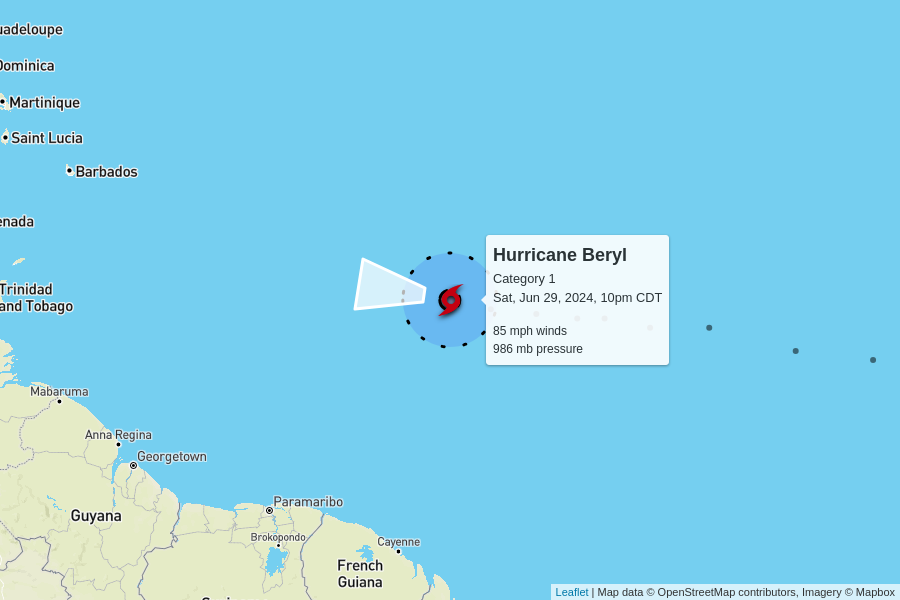
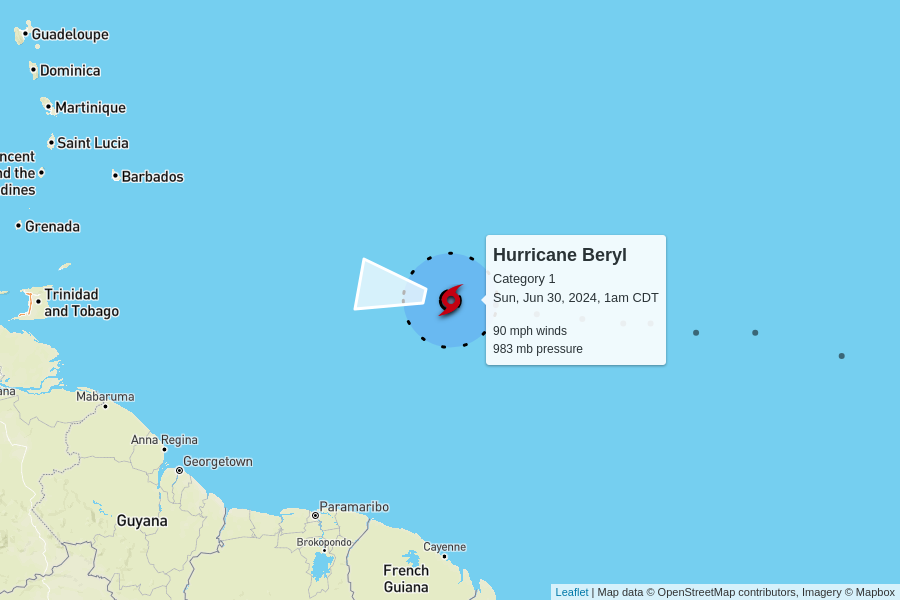
automatic update

diff --git a/docs/index.html b/docs/index.html
@@ -102,7 +102,7 @@
         <td colspan="6" class="storm category-1" >
           <h2>
             Hurricane Beryl - Category 1
-            <p class="updated">last updated <span data-time>2024-06-30T03:00:00.000Z</span></p>
+            <p class="updated">last updated <span data-time>2024-06-30T06:00:00.000Z</span></p>
           </h2>
         </td>
       </tr>
@@ -117,8 +117,8 @@
       </tr>
       <tr>
         <td class="spacer"></td>
-        <td>85 mph<br>+5 mph since last update</td>
-        <td>986 mb<br>-4 mb since last update</td>
+        <td>90 mph<br>+5 mph since last update</td>
+        <td>983 mb<br>-3 mb since last update</td>
         <td>
           20 mph to the west
           <br/>
